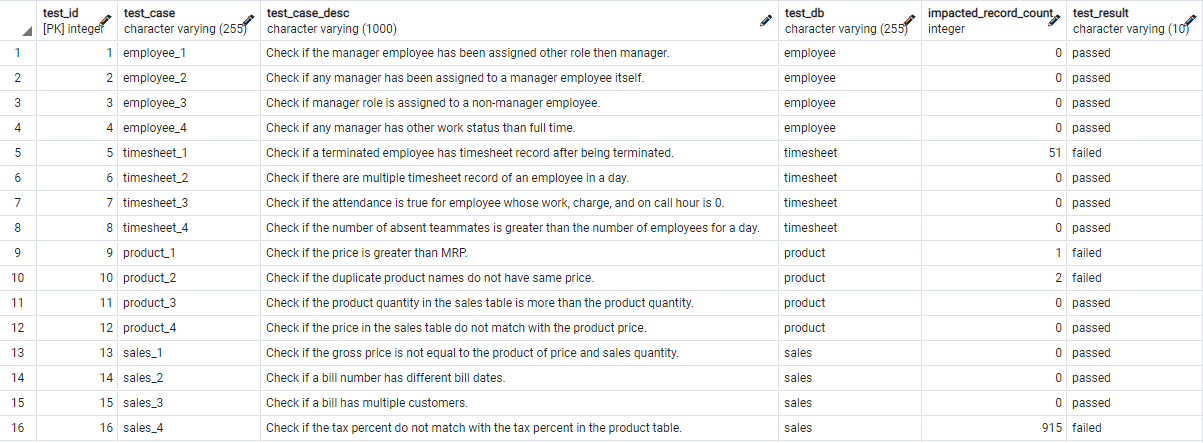
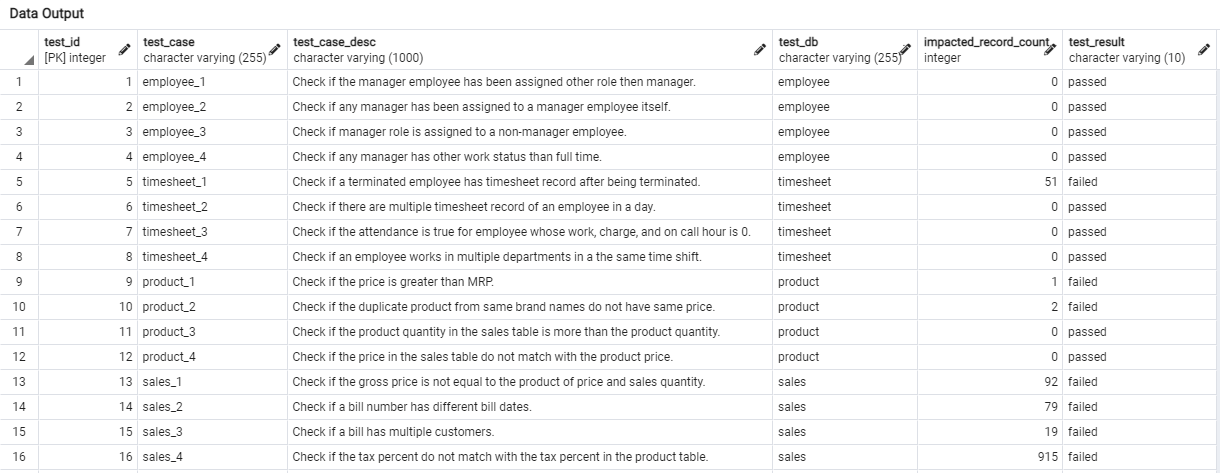
update validation docs

diff --git a/src/pipeline/main.py b/src/pipeline/main.py
@@ -43,7 +43,7 @@ def validate_data_info():
                 'Check if a terminated employee has timesheet record after being terminated.',
                 'Check if there are multiple timesheet record of an employee in a day.',
                 'Check if the attendance is true for employee whose work, charge, and on call hour is 0.',
-                'Check if the number of absent teammates is greater than the number of employees for a day.'
+                'Check if an employee works in multiple departments in a the same time shift.'
             ],
             'sql_validate': [
                 '../sql/validate_timesheet_case_i.sql',
@@ -58,7 +58,7 @@ def validate_data_info():
             'test_table': 'product',
             'test_case': [
                 'Check if the price is greater than MRP.',
-                'Check if the duplicate product names do not have same price.',
+                'Check if the duplicate product from same brand names do not have same price.',
                 'Check if the product quantity in the sales table is more than the product quantity.',
                 'Check if the price in the sales table do not match with the product price.'
             ],

diff --git a/docs/2_data_validation.md b/docs/2_data_validation.md
@@ -112,7 +112,7 @@ WHERE attendance IS TRUE
   AND on_call_hour = 0;
 ~~~~
 > Remarks: Test passed!
-#####  4. Check if the number of absent teammates is greater than the number of employees for a day.
+#####  4. Check if an employee works in multiple departments in the same time shift.
 ~~~~ sql
 SELECT
   COUNT(*) AS impacted_record_count,
@@ -121,10 +121,10 @@ SELECT
     ELSE 'passed'
   END AS test_result
 FROM (
-  SELECT COUNT(employee_id), shift_date
+  SELECT employee_id
   FROM timesheet
-  GROUP BY shift_date
-  HAVING AVG(num_teammates_absent) > COUNT(employee_id)
+  GROUP BY employee_id, shift_start_time, shift_end_time, shift_date
+  HAVING COUNT(department_id) > 1
 ) test_result;
 ~~~~
 > Remarks: Test passed!
@@ -143,7 +143,7 @@ WHERE price > mrp;
 ~~~~
 > Remarks: Test failed!
 > 1 record found.
-#####  2. Check if the duplicate product names do not have same price.
+#####  2. Check if the duplicate product from same brand names do not have same price.
 ~~~~ sql
 SELECT
   COUNT(*) AS impacted_record_count,
@@ -152,9 +152,9 @@ SELECT
     ELSE 'passed'
   END AS test_result
 FROM (
-  SELECT product_name, COUNT(DISTINCT price)
+  SELECT product_name, brand, COUNT(DISTINCT price) 
   FROM product
-  GROUP BY product_name
+  GROUP BY product_name, brand
   HAVING COUNT(DISTINCT price) > 1
 ) test_result;
 ~~~~
@@ -199,9 +199,10 @@ SELECT
     ELSE 'passed'
   END AS test_result
 FROM sales
-WHERE CAST(gross_price AS INT) <> CAST(qty * price AS INT);
+WHERE ROUND(gross_price::NUMERIC, 2) <> ROUND((qty * price)::NUMERIC, 2);
 ~~~~
-> Remarks: Test passed!
+> Remarks: Test failed!
+> 92 records found!
 #####  2.  Check if a bill number has different bill dates.
 ~~~~ sql
 SELECT
@@ -213,11 +214,12 @@ SELECT
 FROM (
   SELECT bill_no, COUNT(DISTINCT bill_date)
   FROM sales
-  GROUP BY bill_no, bill_date
+  GROUP BY bill_no
   HAVING COUNT(DISTINCT bill_date) > 1
 ) test_result;
 ~~~~
-> Remarks: Test passed!
+> Remarks: Test failed!
+> 79 records found.
 #####  3.  Check if a bill has multiple customers.
 ~~~~ sql
 SELECT
@@ -229,11 +231,12 @@ SELECT
 FROM (
   SELECT bill_no, COUNT(DISTINCT customer_id)
   FROM sales
-  GROUP BY bill_no, customer_id
+  GROUP BY bill_no
   HAVING COUNT(DISTINCT customer_id) > 1
 ) test_result;
 ~~~~
-> Remarks: Test passed!
+> Remarks: Test failed!
+> 19 records found.
 #####  4. Check if the tax percent do not match with the tax percent in the product table.
 ~~~~ sql
 SELECT
